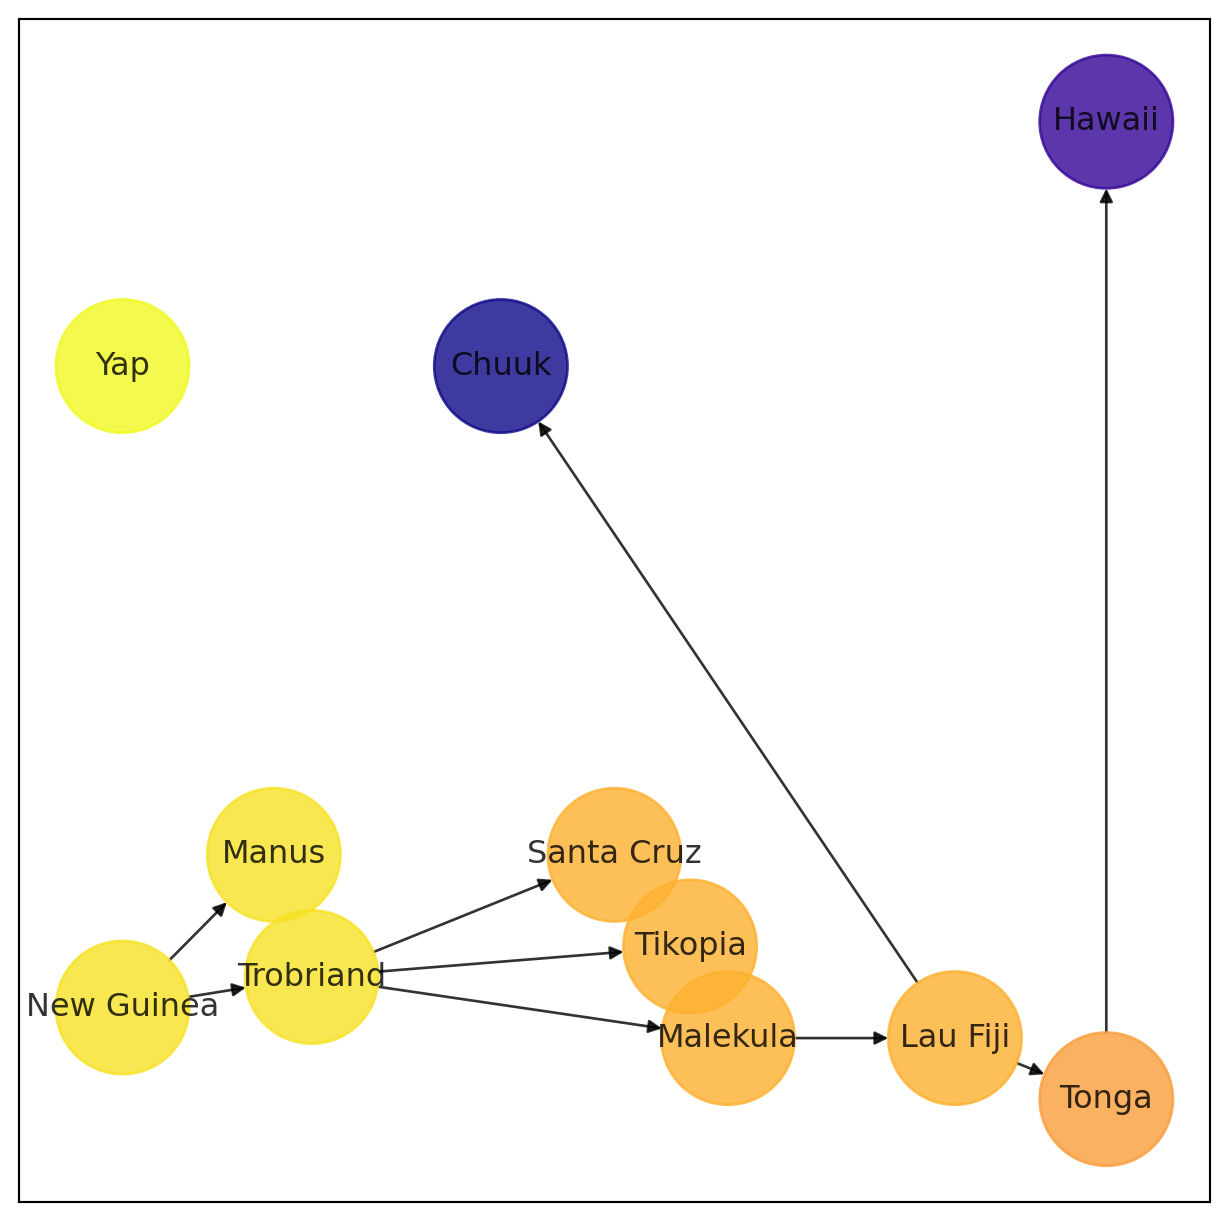
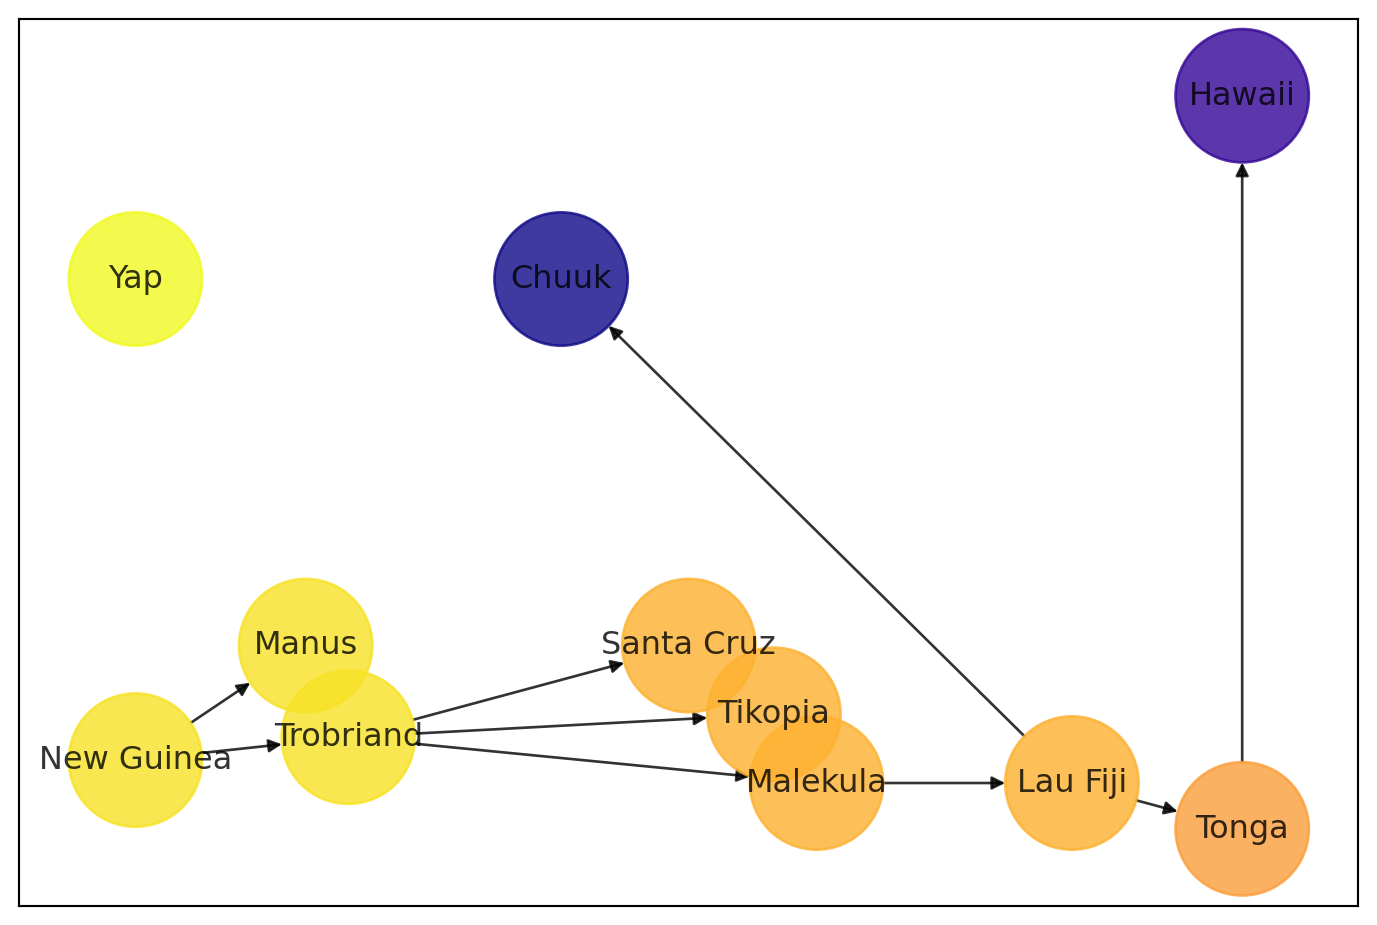
Built site for gh-pages

diff --git a/posts/break-your-toys-and-put-them-back-together/index.html b/posts/break-your-toys-and-put-them-back-together/index.html
@@ -124,7 +124,7 @@ div.csl-indent {
 <link rel="stylesheet" href="../../styles.css">
 </head>
 
-<body class="nav-fixed fullcontent">
+<body class="nav-fixed">
 
 <div id="quarto-search-results"></div>
   <header id="quarto-header" class="headroom fixed-top">
@@ -194,7 +194,23 @@ div.csl-indent {
   </header><div id="quarto-content" class="quarto-container page-columns page-rows-contents page-layout-article page-navbar">
 <!-- sidebar -->
 <!-- margin-sidebar -->
-    
+    <div id="quarto-margin-sidebar" class="sidebar margin-sidebar">
+        <nav id="TOC" role="doc-toc" class="toc-active">
+    <h2 id="toc-title">On this page</h2>
+   
+  <ul class="collapse">
+  <li><a href="#sometimes-you-just-need-to-integrate" id="toc-sometimes-you-just-need-to-integrate" class="nav-link active" data-scroll-target="#sometimes-you-just-need-to-integrate">Sometimes you just need to integrate</a>
+  <ul class="collapse">
+  <li><a href="#fitting" id="toc-fitting" class="nav-link" data-scroll-target="#fitting">Fitting</a></li>
+  </ul></li>
+  <li><a href="#the-founder-effect" id="toc-the-founder-effect" class="nav-link" data-scroll-target="#the-founder-effect">The Founder Effect</a>
+  <ul class="collapse">
+  <li><a href="#a-surprisingly-compact-expression" id="toc-a-surprisingly-compact-expression" class="nav-link" data-scroll-target="#a-surprisingly-compact-expression">A surprisingly compact expression</a></li>
+  <li><a href="#fitting-the-founder-model" id="toc-fitting-the-founder-model" class="nav-link" data-scroll-target="#fitting-the-founder-model">Fitting the founder model</a></li>
+  </ul></li>
+  </ul>
+</nav>
+    </div>
 <!-- main -->
 <main class="content quarto-banner-title-block" id="quarto-document-content">
 
@@ -377,7 +393,7 @@ div.csl-indent {
 <span id="cb4-6"><a href="#cb4-6" aria-hidden="true" tabindex="-1"></a><span class="cf">for</span> val <span class="kw">in</span> pp[:,:]:</span>
 <span id="cb4-7"><a href="#cb4-7" aria-hidden="true" tabindex="-1"></a>    plt.plot(short_label,val,<span class="st">'o'</span>,alpha<span class="op">=</span><span class="fl">0.3</span>)</span></code><button title="Copy to Clipboard" class="code-copy-button"><i class="bi"></i></button></pre></div>
 <div class="cell-output cell-output-display">
-<p><img src="index_files/figure-html/cell-5-output-1.png" width="595" height="412"></p>
+<p><img src="index_files/figure-html/cell-5-output-1.png" width="595" height="411"></p>
 </div>
 </div>
 <div class="cell" data-vscode="{&quot;languageId&quot;:&quot;python&quot;}" data-execution_count="5">
@@ -401,7 +417,7 @@ div.csl-indent {
 <div class="sourceCode cell-code" id="cb7"><pre class="sourceCode python code-with-copy"><code class="sourceCode python"><span id="cb7-1"><a href="#cb7-1" aria-hidden="true" tabindex="-1"></a>post_pred_m0 <span class="op">=</span> pm.sample_posterior_predictive(model<span class="op">=</span>m0,trace<span class="op">=</span>trace0,progressbar<span class="op">=</span><span class="va">False</span>)</span>
 <span id="cb7-2"><a href="#cb7-2" aria-hidden="true" tabindex="-1"></a>predictions <span class="op">=</span> post_pred_m0.posterior_predictive[<span class="st">'Y'</span>].values.reshape((<span class="dv">8000</span>,<span class="dv">10</span>))</span>
 <span id="cb7-3"><a href="#cb7-3" aria-hidden="true" tabindex="-1"></a></span>
-<span id="cb7-4"><a href="#cb7-4" aria-hidden="true" tabindex="-1"></a>fig, ax <span class="op">=</span> plt.subplots(figsize<span class="op">=</span>(<span class="dv">8</span>,<span class="dv">5</span>))</span>
+<span id="cb7-4"><a href="#cb7-4" aria-hidden="true" tabindex="-1"></a>fig, ax <span class="op">=</span> plt.subplots(figsize<span class="op">=</span>(<span class="dv">9</span>,<span class="dv">5</span>))</span>
 <span id="cb7-5"><a href="#cb7-5" aria-hidden="true" tabindex="-1"></a></span>
 <span id="cb7-6"><a href="#cb7-6" aria-hidden="true" tabindex="-1"></a><span class="cf">for</span> index <span class="kw">in</span> <span class="bu">range</span>(<span class="bu">len</span>(label_id)):</span>
 <span id="cb7-7"><a href="#cb7-7" aria-hidden="true" tabindex="-1"></a>    ax.text(np.log(N)[index], tools[index], label_id[index], size<span class="op">=</span><span class="dv">12</span>)</span>
@@ -417,7 +433,7 @@ div.csl-indent {
 <pre><code>Sampling: [Y]</code></pre>
 </div>
 <div class="cell-output cell-output-display">
-<p><img src="index_files/figure-html/cell-8-output-2.png" width="667" height="429"></p>
+<p><img src="index_files/figure-html/cell-8-output-2.png" width="738" height="429"></p>
 </div>
 </div>
 <p>When it comes to fitting toy mechanistic models we have to be careful. They break more easily than linear regression. Frankly, I think that’s a good thing. If your model fits every dataset, you cannot learn from it. However! If a toy model breaks for opaque reasons, then it is also hard to learn from. In our case, it’s not initially easy to tell whether the demographic theory of technology is bunk or whether there are some simple features of the Oceanic societies that we have to add before the model works well.</p>
@@ -454,10 +470,10 @@ div.csl-indent {
 <span id="cb9-22"><a href="#cb9-22" aria-hidden="true" tabindex="-1"></a>        <span class="st">"Tonga"</span>:[<span class="fl">0.7</span>,<span class="op">-</span><span class="fl">0.8</span>],</span>
 <span id="cb9-23"><a href="#cb9-23" aria-hidden="true" tabindex="-1"></a>        <span class="st">"Hawaii"</span>:[<span class="fl">0.7</span>,<span class="fl">0.8</span>],</span>
 <span id="cb9-24"><a href="#cb9-24" aria-hidden="true" tabindex="-1"></a>        <span class="st">"Chuuk"</span>:[<span class="op">-</span><span class="fl">0.1</span>,<span class="fl">0.4</span>]}</span>
-<span id="cb9-25"><a href="#cb9-25" aria-hidden="true" tabindex="-1"></a>plt.figure(figsize<span class="op">=</span>(<span class="dv">8</span>,<span class="dv">8</span>))</span>
+<span id="cb9-25"><a href="#cb9-25" aria-hidden="true" tabindex="-1"></a>plt.figure(figsize<span class="op">=</span>(<span class="dv">9</span>,<span class="dv">6</span>))</span>
 <span id="cb9-26"><a href="#cb9-26" aria-hidden="true" tabindex="-1"></a>nx.draw_networkx(G,node_color<span class="op">=</span>node_color,cmap<span class="op">=</span><span class="st">"plasma"</span>,pos<span class="op">=</span>pos,with_labels<span class="op">=</span><span class="va">True</span>,node_size<span class="op">=</span><span class="dv">2500</span>,alpha<span class="op">=</span><span class="fl">0.8</span>)</span></code><button title="Copy to Clipboard" class="code-copy-button"><i class="bi"></i></button></pre></div>
 <div class="cell-output cell-output-display">
-<p><img src="index_files/figure-html/cell-9-output-1.png" width="614" height="611"></p>
+<p><img src="index_files/figure-html/cell-9-output-1.png" width="689" height="463"></p>
 </div>
 </div>
 <p>We’ll need a new model where the level of technical skill is dependent on two factors: the demographic model for the settled society plus the level of technology present in the founder society at the time of founding. We’ll need to break the development time into two periods. In the first period, the founder society is innovating with its population size. In the second period, the ancestor society settles on the new island and now that island starts innovating autonomously with its population size. The dividing line between the two periods is just the difference in their development time.</p>

diff --git a/posts/make-smart-choices/index.html b/posts/make-smart-choices/index.html
@@ -100,7 +100,7 @@ pre > code.sourceCode > span > a:first-child::before { text-decoration: underlin
 <link rel="stylesheet" href="../../styles.css">
 </head>
 
-<body class="nav-fixed fullcontent">
+<body class="nav-fixed">
 
 <div id="quarto-search-results"></div>
   <header id="quarto-header" class="headroom fixed-top">
@@ -170,7 +170,29 @@ pre > code.sourceCode > span > a:first-child::before { text-decoration: underlin
   </header><div id="quarto-content" class="quarto-container page-columns page-rows-contents page-layout-article page-navbar">
 <!-- sidebar -->
 <!-- margin-sidebar -->
-    
+    <div id="quarto-margin-sidebar" class="sidebar margin-sidebar">
+        <nav id="TOC" role="doc-toc" class="toc-active">
+    <h2 id="toc-title">On this page</h2>
+   
+  <ul class="collapse">
+  <li><a href="#the-intuition-behind-multi-level-modeling" id="toc-the-intuition-behind-multi-level-modeling" class="nav-link active" data-scroll-target="#the-intuition-behind-multi-level-modeling">The intuition behind multi-level modeling</a></li>
+  <li><a href="#data-cleaning" id="toc-data-cleaning" class="nav-link" data-scroll-target="#data-cleaning">Data cleaning</a></li>
+  <li><a href="#unpooled-analysis" id="toc-unpooled-analysis" class="nav-link" data-scroll-target="#unpooled-analysis">Unpooled analysis</a>
+  <ul class="collapse">
+  <li><a href="#prior-simulation" id="toc-prior-simulation" class="nav-link" data-scroll-target="#prior-simulation">Prior simulation</a></li>
+  <li><a href="#sampling" id="toc-sampling" class="nav-link" data-scroll-target="#sampling">Sampling</a></li>
+  <li><a href="#posterior-predictive-checking" id="toc-posterior-predictive-checking" class="nav-link" data-scroll-target="#posterior-predictive-checking">Posterior predictive checking</a></li>
+  </ul></li>
+  <li><a href="#multi-level-model-analysis" id="toc-multi-level-model-analysis" class="nav-link" data-scroll-target="#multi-level-model-analysis">Multi-level model analysis</a>
+  <ul class="collapse">
+  <li><a href="#prior-simulation-1" id="toc-prior-simulation-1" class="nav-link" data-scroll-target="#prior-simulation-1">Prior simulation</a></li>
+  <li><a href="#sampling-1" id="toc-sampling-1" class="nav-link" data-scroll-target="#sampling-1">Sampling</a></li>
+  <li><a href="#posterior-predictive-checking-1" id="toc-posterior-predictive-checking-1" class="nav-link" data-scroll-target="#posterior-predictive-checking-1">Posterior predictive checking</a></li>
+  </ul></li>
+  <li><a href="#comparing-partial-pooling-and-unpooled-analysis" id="toc-comparing-partial-pooling-and-unpooled-analysis" class="nav-link" data-scroll-target="#comparing-partial-pooling-and-unpooled-analysis">Comparing partial pooling and unpooled analysis</a></li>
+  </ul>
+</nav>
+    </div>
 <!-- main -->
 <main class="content quarto-banner-title-block" id="quarto-document-content">
 

diff --git a/index.html b/index.html
@@ -168,7 +168,7 @@ ul.task-list li input[type="checkbox"] {
 
 <div class="quarto-listing quarto-listing-container-default" id="listing-listing">
 <div class="list quarto-listing-default">
-<div class="quarto-post image-right" data-index="0" data-listing-date-sort="1694588400000" data-listing-file-modified-sort="1695314710445" data-listing-date-modified-sort="NaN" data-listing-reading-time-sort="17">
+<div class="quarto-post image-right" data-index="0" data-listing-date-sort="1694588400000" data-listing-file-modified-sort="1695668705597" data-listing-date-modified-sort="NaN" data-listing-reading-time-sort="17">
 <div class="thumbnail">
 <p><a href="./posts/break-your-toys-and-put-them-back-together/index.html"> <img src="./posts/break-your-toys-and-put-them-back-together/image.png" class="thumbnail-image"> </a></p>
 </div>
@@ -196,7 +196,7 @@ Daniel Saunders
 </a>
 </div>
 </div>
-<div class="quarto-post image-right" data-index="1" data-listing-date-sort="1689750000000" data-listing-file-modified-sort="1695314594035" data-listing-date-modified-sort="1695279600000" data-listing-reading-time-sort="18">
+<div class="quarto-post image-right" data-index="1" data-listing-date-sort="1689750000000" data-listing-file-modified-sort="1695668707985" data-listing-date-modified-sort="1695279600000" data-listing-reading-time-sort="18">
 <div class="thumbnail">
 <p><a href="./posts/if-none-of-the-above-then-what/index.html"> <img src="./posts/if-none-of-the-above-then-what/image.png" class="thumbnail-image"> </a></p>
 </div>
@@ -224,7 +224,7 @@ Daniel Saunders
 </a>
 </div>
 </div>
-<div class="quarto-post image-right" data-index="2" data-listing-date-sort="1671696000000" data-listing-file-modified-sort="1689873387903" data-listing-date-modified-sort="NaN" data-listing-reading-time-sort="22">
+<div class="quarto-post image-right" data-index="2" data-listing-date-sort="1671696000000" data-listing-file-modified-sort="1695668710087" data-listing-date-modified-sort="NaN" data-listing-reading-time-sort="22">
 <div class="thumbnail">
 <p><a href="./posts/make-smart-choices/index.html"> <img src="./posts/make-smart-choices/output_28_0.png" class="thumbnail-image"> </a></p>
 </div>

diff --git a/posts/if-none-of-the-above-then-what/index.html b/posts/if-none-of-the-above-then-what/index.html
@@ -87,7 +87,7 @@ div.csl-indent {
 <link rel="stylesheet" href="../../styles.css">
 </head>
 
-<body class="nav-fixed fullcontent">
+<body class="nav-fixed">
 
 <div id="quarto-search-results"></div>
   <header id="quarto-header" class="headroom fixed-top">
@@ -163,7 +163,18 @@ div.csl-indent {
   </header><div id="quarto-content" class="quarto-container page-columns page-rows-contents page-layout-article page-navbar">
 <!-- sidebar -->
 <!-- margin-sidebar -->
-    
+    <div id="quarto-margin-sidebar" class="sidebar margin-sidebar">
+        <nav id="TOC" role="doc-toc" class="toc-active">
+    <h2 id="toc-title">On this page</h2>
+   
+  <ul class="collapse">
+  <li><a href="#start-from-a-simple-mechanistic-model" id="toc-start-from-a-simple-mechanistic-model" class="nav-link active" data-scroll-target="#start-from-a-simple-mechanistic-model">Start from a simple mechanistic model</a></li>
+  <li><a href="#build-your-statistical-model-out-of-the-mechanistic-model" id="toc-build-your-statistical-model-out-of-the-mechanistic-model" class="nav-link" data-scroll-target="#build-your-statistical-model-out-of-the-mechanistic-model">Build your statistical model out of the mechanistic model</a></li>
+  <li><a href="#fit-your-model-to-your-data" id="toc-fit-your-model-to-your-data" class="nav-link" data-scroll-target="#fit-your-model-to-your-data">Fit your model to your data</a></li>
+  <li><a href="#criticize-your-model" id="toc-criticize-your-model" class="nav-link" data-scroll-target="#criticize-your-model">Criticize your model</a></li>
+  </ul>
+</nav>
+    </div>
 <!-- main -->
 <main class="content quarto-banner-title-block" id="quarto-document-content">
 
